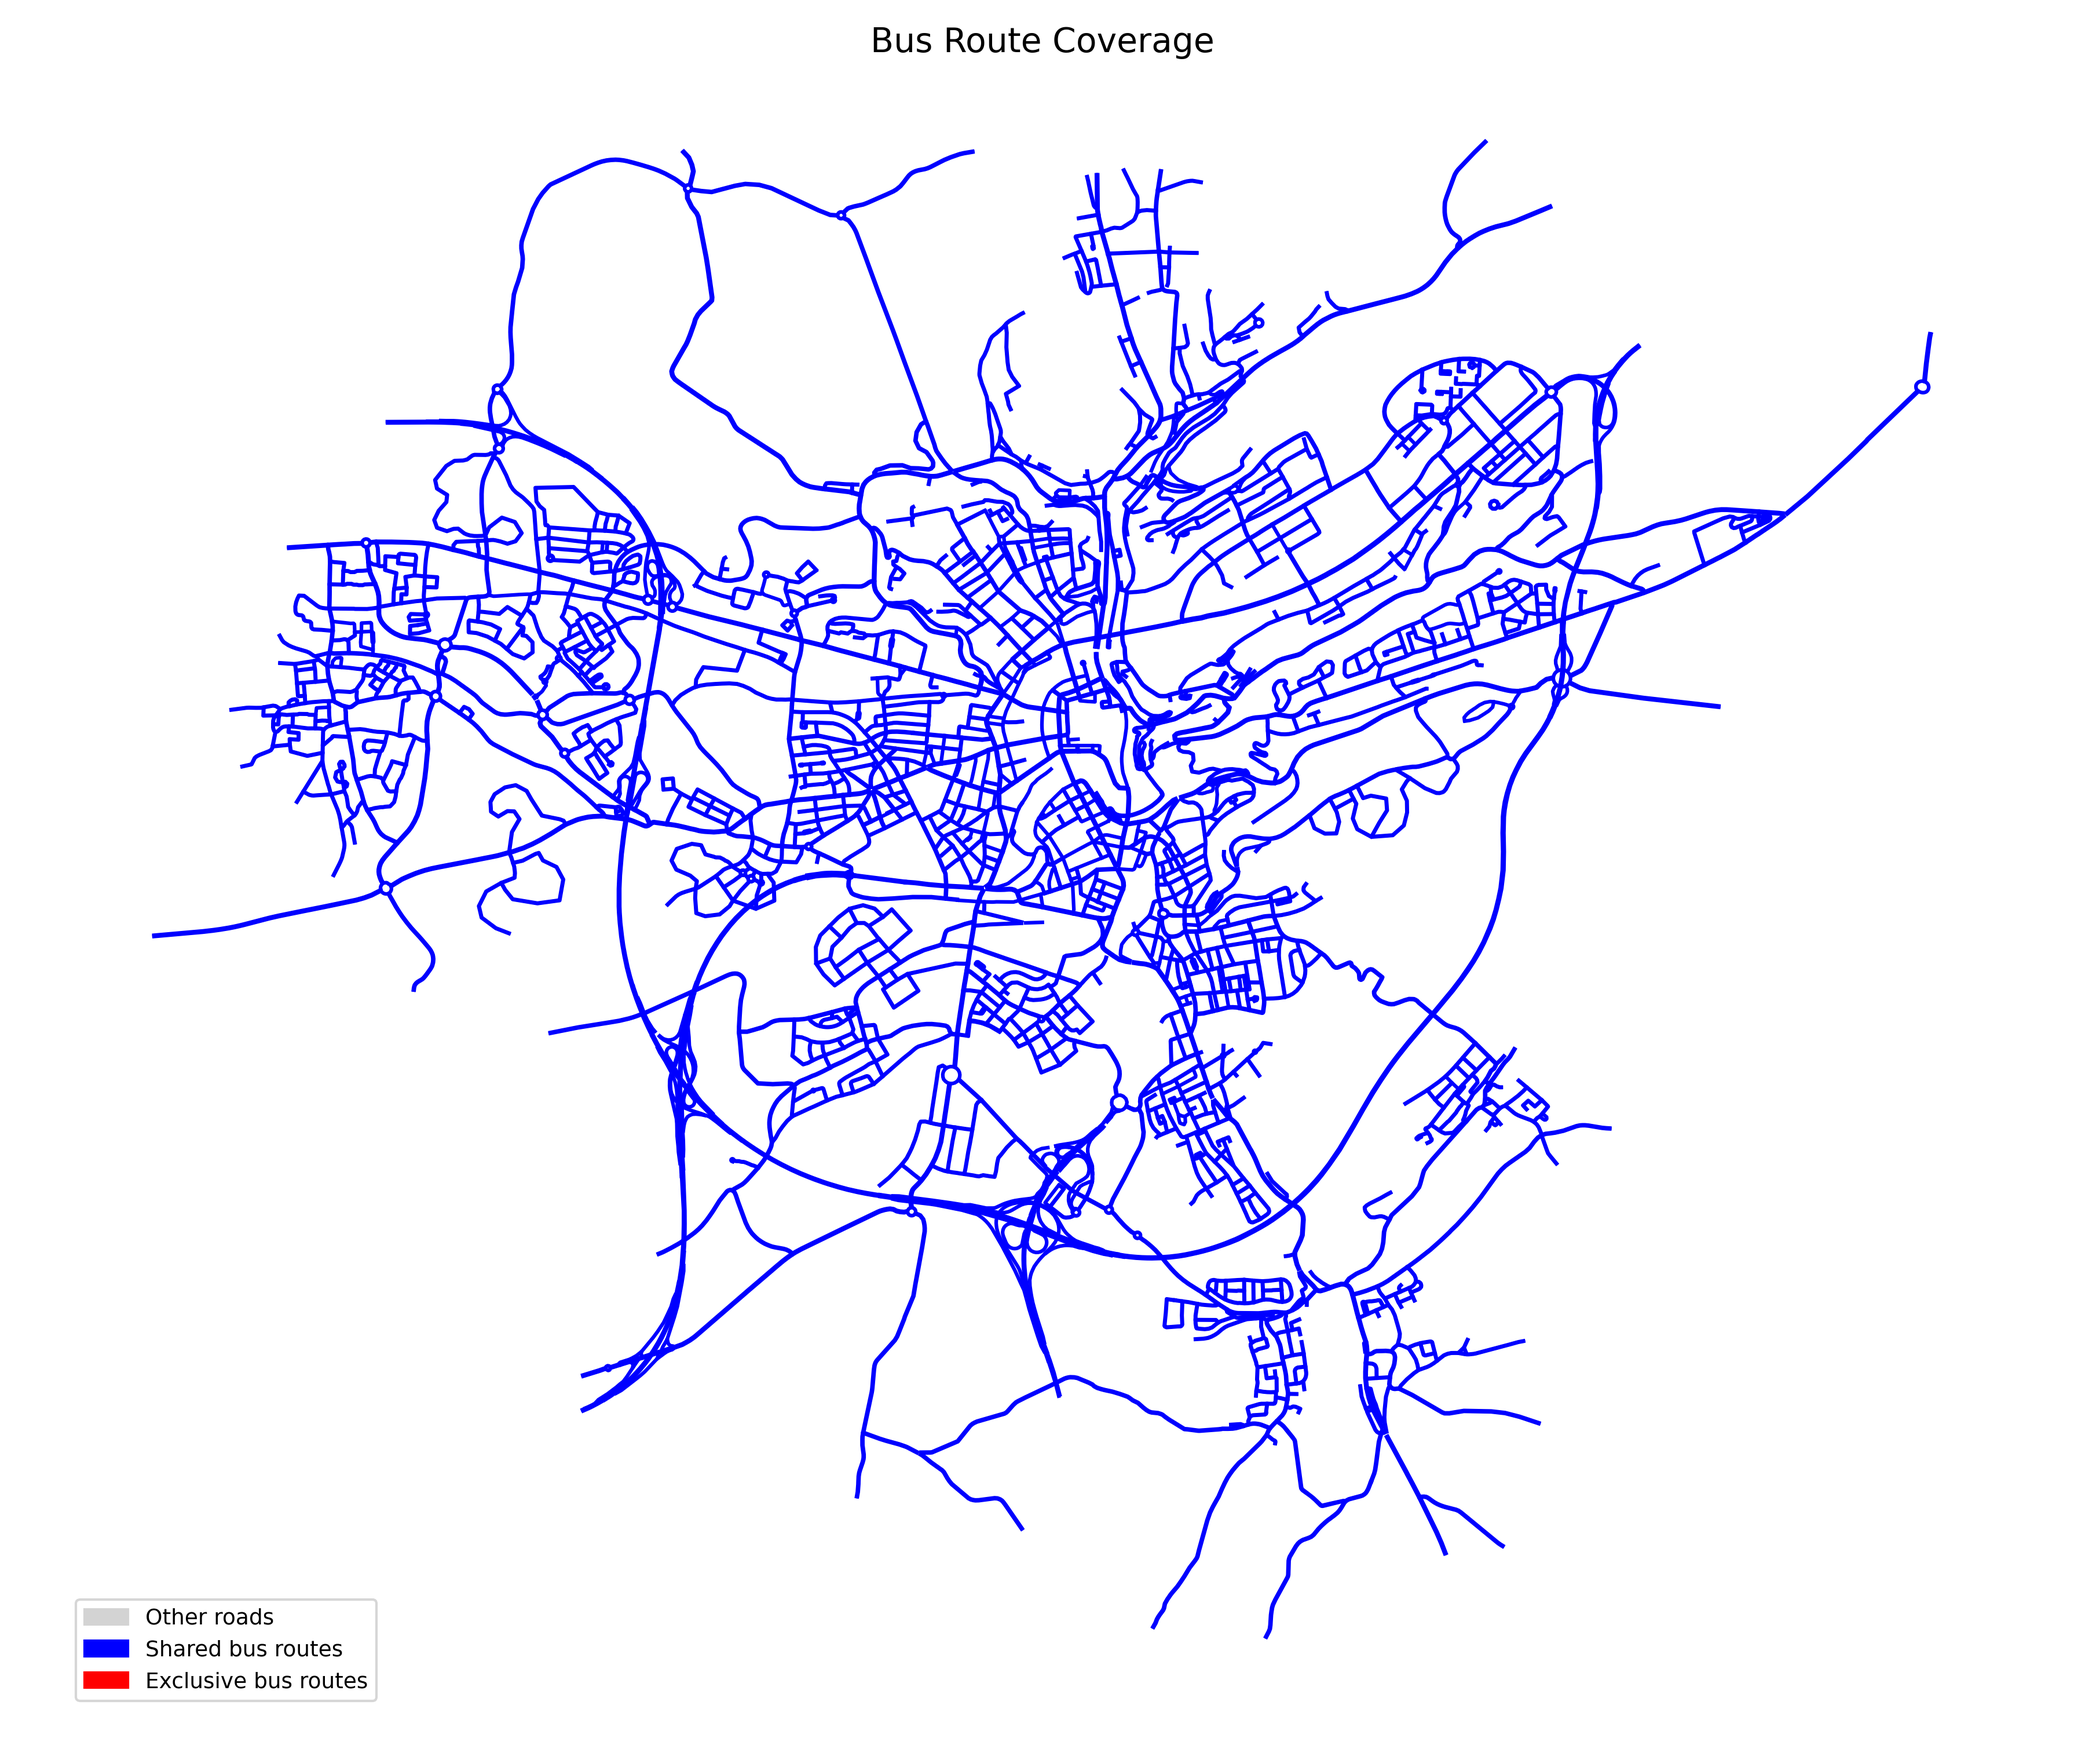
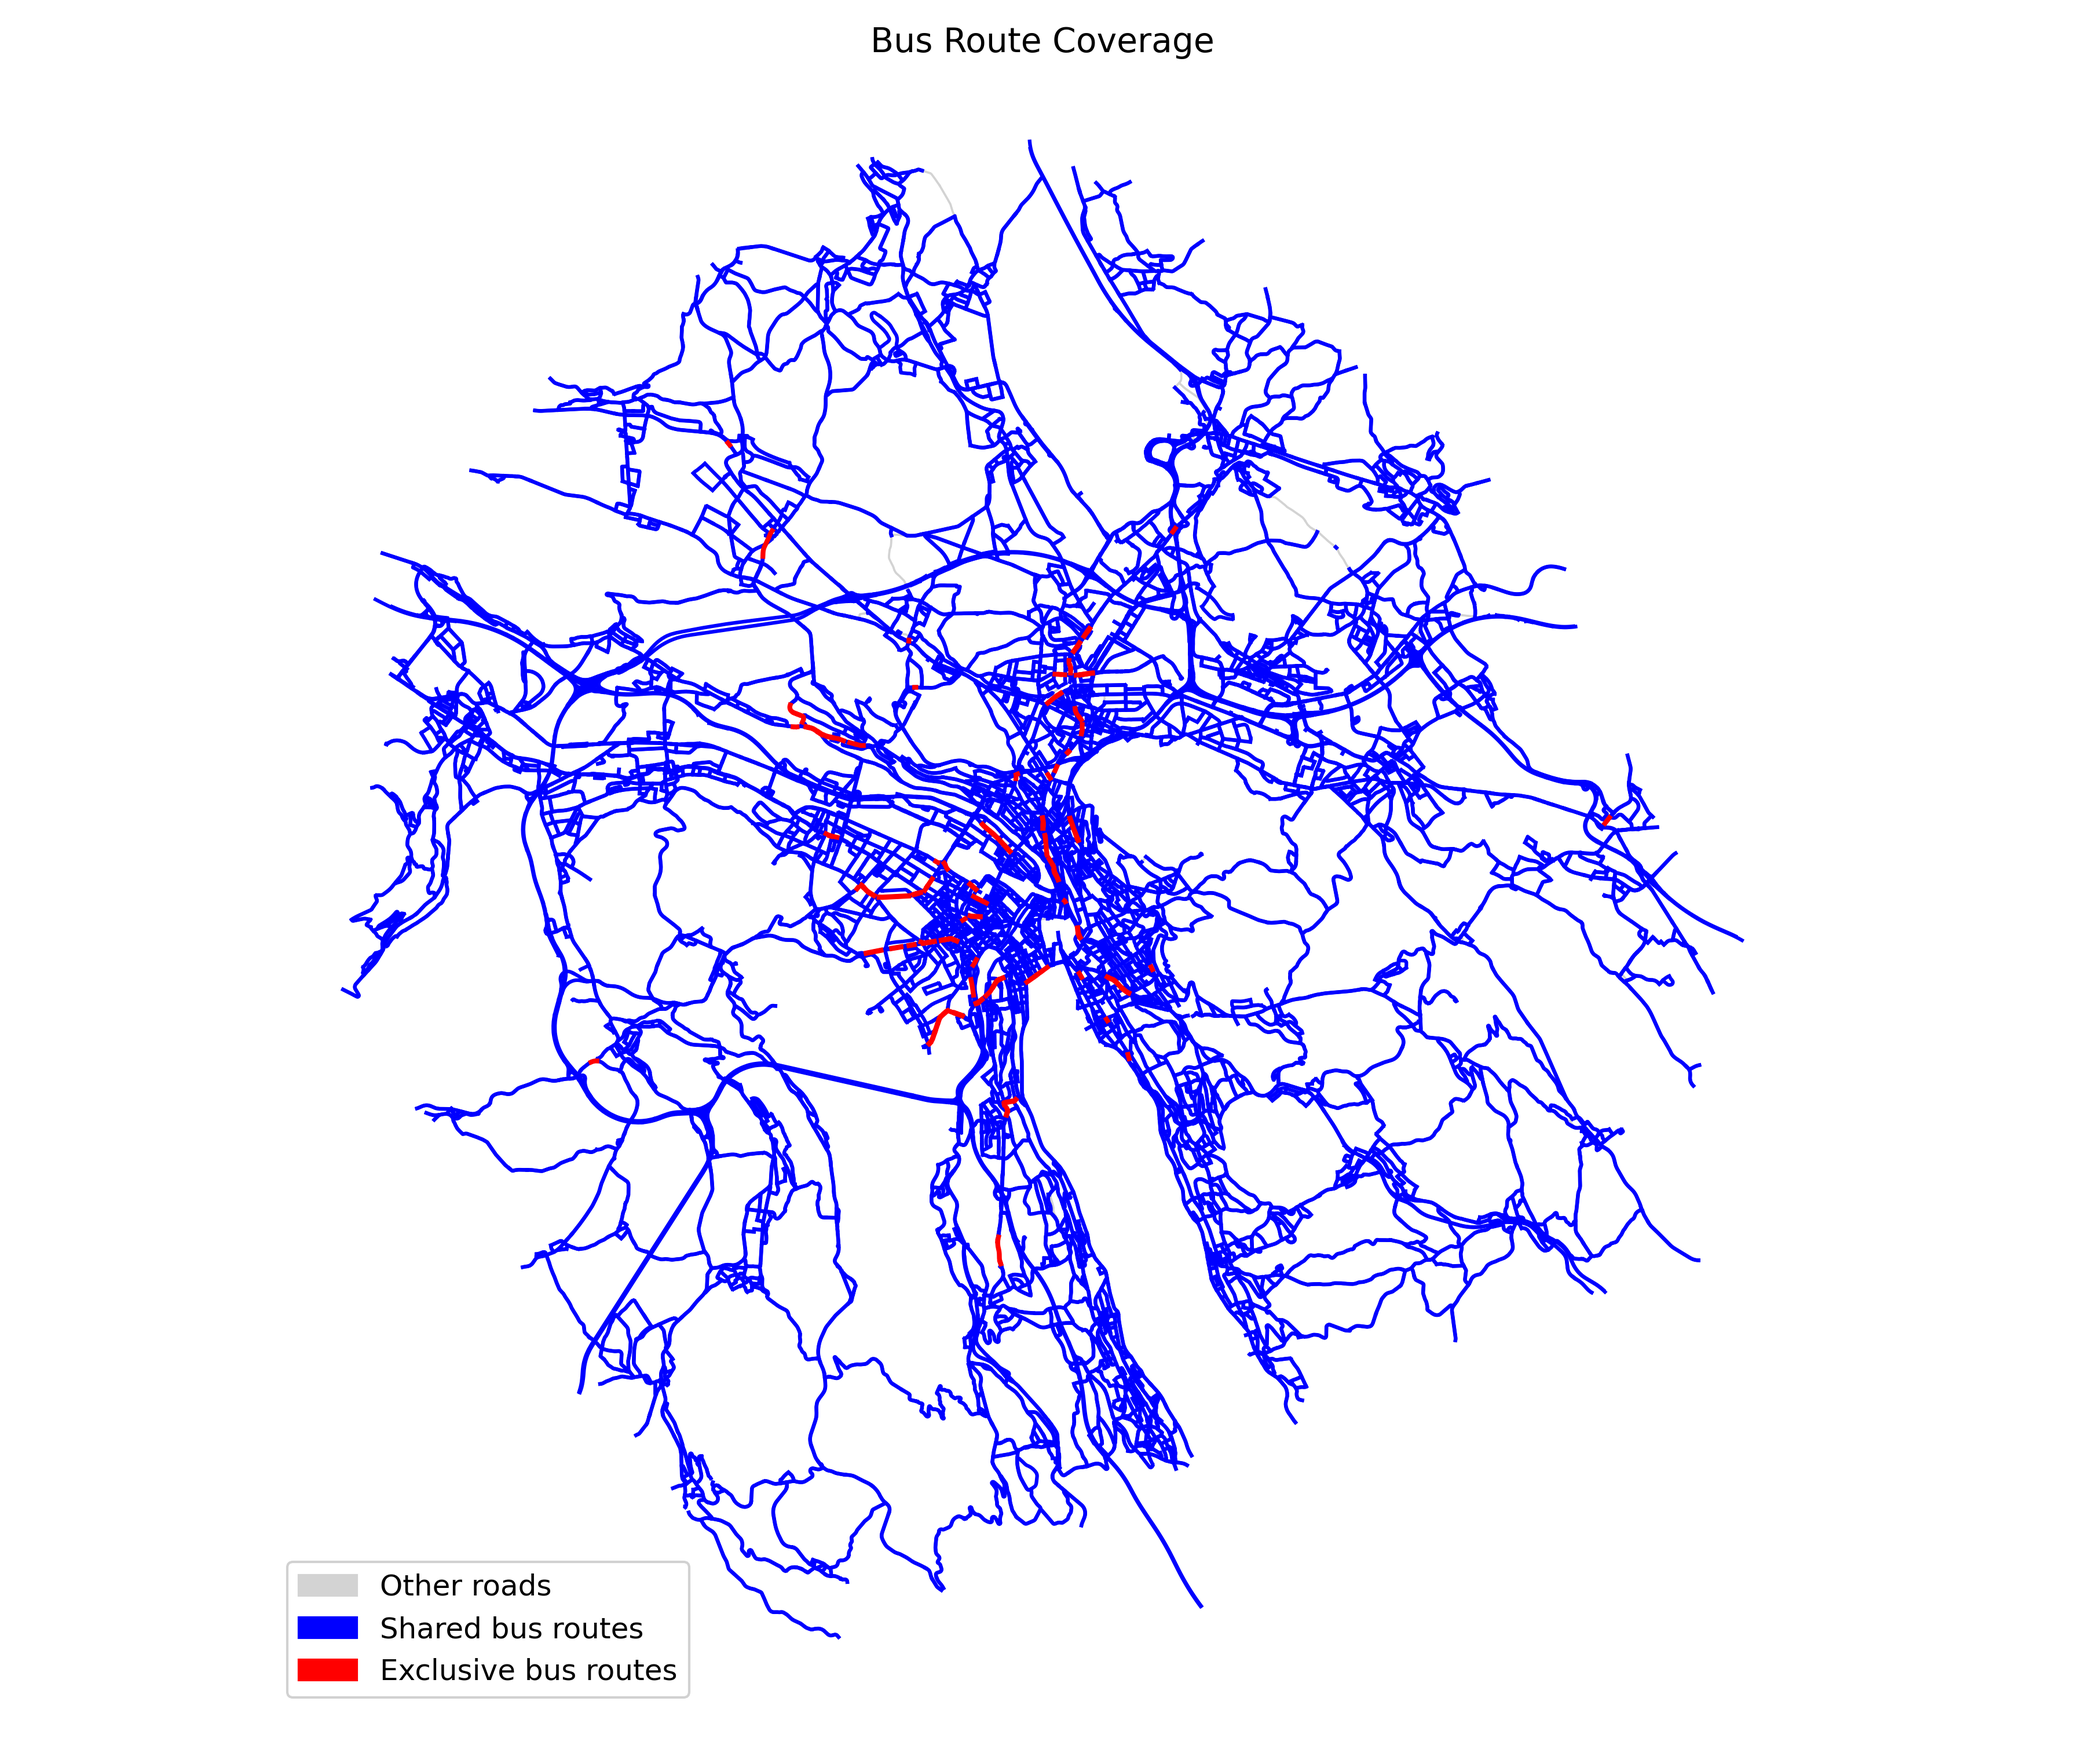
bus routes plots

diff --git a/T4.1-KPIs/get_and_plot_bus_KPIs.py b/T4.1-KPIs/get_and_plot_bus_KPIs.py
@@ -1,16 +1,18 @@
+import os
 import xml.etree.ElementTree as ET
 import matplotlib.pyplot as plt
 import matplotlib.patches as mpatches
 import sumolib
 from get_infrastructure_KPIs import estimate_area_km2, kpi_total_road_length, load_edges
 
-NET_FILE = "LuSTScenario-master/scenario/lust.net.xml"
+NET_FILE   = "VMOD.net.xml"
 OUTPUT_DIR = "plots"
+
 
 def load_bus_edges(net_file):
     tree = ET.parse(net_file)
     root = tree.getroot()
-    bus_edges = []
+    bus_edges           = []
     exclusive_bus_edges = []
 
     for edge in root.findall("edge"):
@@ -20,56 +22,62 @@ def load_bus_edges(net_file):
         lanes = edge.findall("lane")
         if not lanes:
             continue
-        length_m = float(lanes[0].get("length", 0))
-        allowed = set()
-        disallowed = set()
-        for lane in lanes:
-            allow = lane.get("allow", "")
-            disallow = lane.get("disallow", "")
-            if allow:
-                allowed.update(allow.split())
-            if disallow:
-                disallowed.update(disallow.split())
+        length_m      = float(lanes[0].get("length", 0))
+        bus_allowed   = False
+        bus_exclusive = False
 
-        bus_allowed = (
-            "bus" in allowed or
-            ("all" in allowed and "bus" not in disallowed) or
-            (not allowed and "bus" not in disallowed)
-        )
-        bus_exclusive = allowed == {"bus"}
+        for lane in lanes:
+            allow           = lane.get("allow", "")
+            disallow        = lane.get("disallow", "")
+            lane_allowed    = set(allow.split())    if allow    else set()
+            lane_disallowed = set(disallow.split()) if disallow else set()
+
+            lane_bus_allowed = (
+                "bus" in lane_allowed or
+                ("all" in lane_allowed and "bus" not in lane_disallowed) or
+                (not lane_allowed and "bus" not in lane_disallowed)
+            )
+            if lane_bus_allowed:
+                bus_allowed = True
+            if lane_allowed == {"bus"}:
+                bus_exclusive = True
+
         if bus_allowed:
             bus_edges.append({"id": edge_id, "length_m": length_m})
         if bus_exclusive:
             exclusive_bus_edges.append({"id": edge_id, "length_m": length_m})
+
     return bus_edges, exclusive_bus_edges
+
 
 def total_km(edges):
     return sum(e["length_m"] for e in edges) / 1000
 
+
 def plot_bus_routes(net, bus_edges, exclusive_bus_edges, filename):
     bus_ids       = {e["id"] for e in bus_edges}
     exclusive_ids = {e["id"] for e in exclusive_bus_edges}
- 
+
     fig, ax = plt.subplots(figsize=(12, 10))
- 
+
     for edge in net.getEdges():
         eid  = edge.getID()
         x, y = zip(*edge.getShape())
- 
+
         if eid in exclusive_ids:
             ax.plot(x, y, color="red",       linewidth=2.0, zorder=3)
         elif eid in bus_ids:
             ax.plot(x, y, color="blue",      linewidth=1.5, zorder=2)
         else:
             ax.plot(x, y, color="lightgray", linewidth=0.8, zorder=1)
- 
+
     legend_patches = [
         mpatches.Patch(color="lightgray", label="Other roads"),
         mpatches.Patch(color="blue",      label="Shared bus routes"),
         mpatches.Patch(color="red",       label="Exclusive bus routes"),
     ]
-    ax.legend(handles=legend_patches, loc="lower left", fontsize=9, framealpha=0.8)
- 
+    ax.legend(handles=legend_patches, loc="lower left", fontsize=12, framealpha=0.9)
+
     ax.set_aspect("equal")
     ax.axis("off")
     plt.title("Bus Route Coverage", fontsize=14)
@@ -77,37 +85,39 @@ def plot_bus_routes(net, bus_edges, exclusive_bus_edges, filename):
     plt.savefig(filename, dpi=300)
     plt.close(fig)
     print(f"Saved {filename}")
- 
+
 
 if __name__ == "__main__":
-    edges = load_edges(NET_FILE)
+    os.makedirs(OUTPUT_DIR, exist_ok=True)
+
+    edges                          = load_edges(NET_FILE)
     bus_edges, exclusive_bus_edges = load_bus_edges(NET_FILE)
-    area_km2 = estimate_area_km2(NET_FILE)
-    total_road_km = kpi_total_road_length(edges)
-    bus_km = total_km(bus_edges)
-    exclusive_km = total_km(exclusive_bus_edges)
+    area_km2                       = estimate_area_km2(NET_FILE)
+    total_road_km                  = kpi_total_road_length(edges)
+    bus_km                         = total_km(bus_edges)
+    exclusive_km                   = total_km(exclusive_bus_edges)
 
     print(f"Total road length      : {total_road_km:.2f} km")
     print(f"Total bus route length : {bus_km:.2f} km")
     print(f"Exclusive bus length   : {exclusive_km:.2f} km")
- 
+
     print("\nExclusive bus routes over total bus routes")
     if bus_km > 0:
         print(f"  {exclusive_km / bus_km * 100:.2f} %")
     else:
         print("  No bus routes found in network")
- 
+
     print("\nBus route length over total road network")
     if total_road_km > 0:
         print(f"  {bus_km / total_road_km * 100:.2f} %")
     else:
         print("  No roads found in network")
- 
+
     print("\nBus route length per area")
     if area_km2:
         print(f"  {bus_km / area_km2:.4f} km/km²")
     else:
         print("  Area could not be estimated")
-    
+
     net = sumolib.net.readNet(NET_FILE)
     plot_bus_routes(net, bus_edges, exclusive_bus_edges, f"{OUTPUT_DIR}/bus_routes_map.png")
